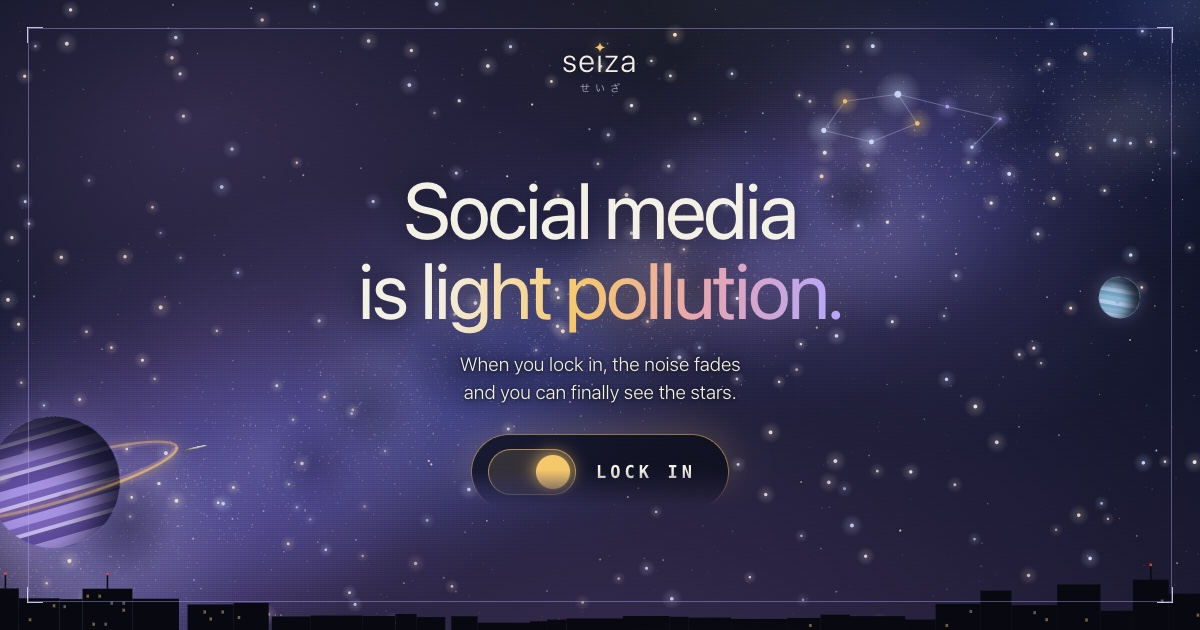
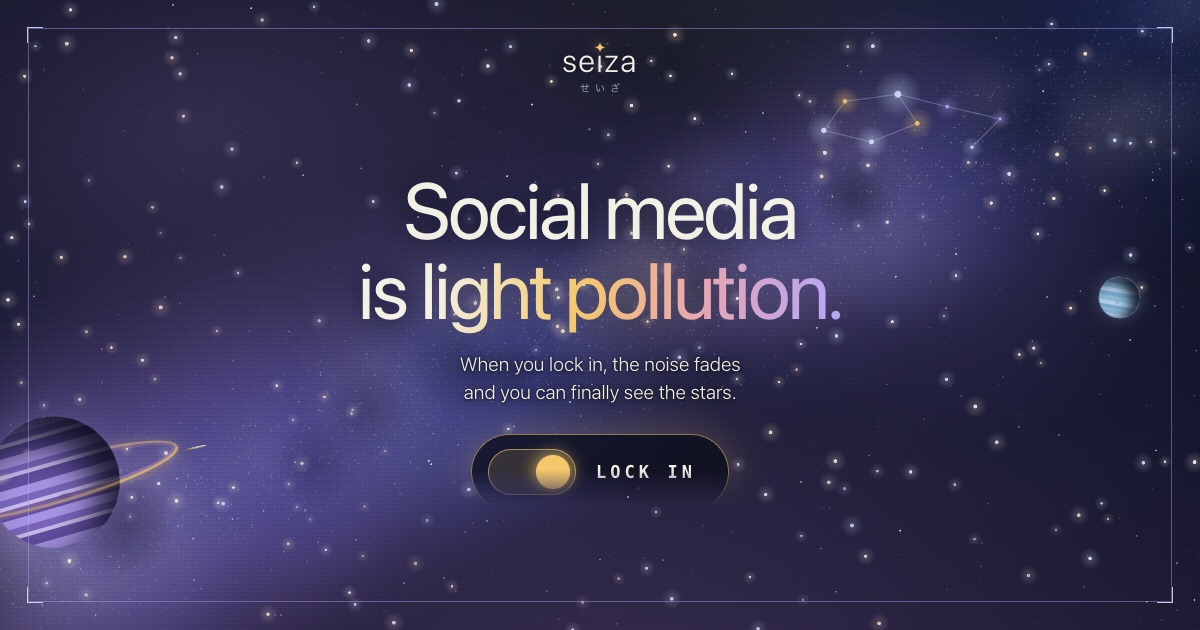
Remove the city lights and the haze switch from the website
Jake wasn't sold on the city, and it was some of the sky's per-frame work. Light pollution is
the sunset-like glow only, so the Haze switch (LookSwitch, useLook, look.css) goes too. The share
image is retaken without the skyline.

Changed region(s): [[0.0, 0.9048, 1.0, 1.0]]

diff --git a/apps/website/app/utils/sky.js b/apps/website/app/utils/sky.js
@@ -1,6 +1,6 @@
 // The night sky behind the website, on a canvas: thousands of stars by brightness, the
 // Milky Way, a constellation that draws itself, the odd shooting star, and light pollution, the
-// brand's metaphor. With `haze` at 1 the sky is a washed-out orange city glow where only the
+// brand's metaphor. With `haze` at 1 the sky is a washed-out orange glow where only the
 // brightest stars get through; at 0 it's clear and deep. Every option eases toward its new
 // value, so a change glides; with reduced motion the sky jumps there and stays still.
 function random(seed) {
@@ -54,9 +54,6 @@ const STAR_COLORS = ['#f3f0e6', '#f3f0e6', '#dce4ff', '#cfe0ff', '#fff1d6', '#ff
  *   shorter side)
  * - shift: scrolls the stars up by this many pixels, the nearer ones more, for parallax
  * - glow: the dusk glow at the bottom of a clear sky
- * - city: how the light pollution looks, from a sunset-like glow (0) to city lights (1): a
- *   skyline along the bottom with lit windows and a dome of orange light over it. Fewer windows
- *   stay lit as the haze clears.
  * Not eased: `meteors` (shooting stars now and then while the sky is clear), `seed`.
  * Returns { set(options), state }.
  */
@@ -72,7 +69,6 @@ export function createSky(canvas, options = {}) {
       cs: 0.42,
       shift: 0,
       glow: 1,
-      city: 0,
     },
     options,
   );
@@ -84,12 +80,8 @@ export function createSky(canvas, options = {}) {
   let dpr = 1;
   let stars = [];
   let band = null;
-  let buildings = [];
   // Per star color, a bright star drawn once (disc, or disc and halo) to stamp each frame.
   let sprites = new Map();
-  // The buildings and their windows, drawn now and then rather than every frame.
-  let cityLayer = null;
-  let cityDrawn = { at: -Infinity, haze: -1, city: -1 };
   const shooting = [];
   let nextMeteor = 4000;
 
@@ -114,8 +106,6 @@ export function createSky(canvas, options = {}) {
     stars.sort((a, b) => STAR_COLORS.indexOf(a.color) - STAR_COLORS.indexOf(b.color));
     sprites = new Map(STAR_COLORS.map((color) => [color, starSprites(color)]));
     band = milkyWay(random(11));
-    buildings = skyline(random(23));
-    cityLayer = null;
   }
 
   // A bright star at radius SPRITE_R: the disc alone, and the disc with its halo out to six
@@ -196,34 +186,6 @@ export function createSky(canvas, options = {}) {
     return off;
   }
 
-  // A city along the bottom: low rooftops in the middle, where a page's bottom navigation
-  // sits, and towers rising towards the left and right edges. Each building has a grid of
-  // windows that light up in a random order as the haze thickens; the low middle stretch keeps
-  // fewer of them lit, so it doesn't outshine what's drawn over it.
-  function skyline(rand) {
-    const out = [];
-    const tallest = Math.max(36, h * 0.075);
-    const valley = Math.min(340, w * 0.46);
-    let x = -8;
-    while (x < w + 8) {
-      const bw = 16 + rand() * 44;
-      const fromMiddle = Math.abs(x + bw / 2 - w / 2);
-      // 0 in the low middle, rising to 1 by the edges.
-      const rise = Math.min(1, Math.max(0, (fromMiddle - valley) / Math.max(1, w / 2 - valley)));
-      const edge = fromMiddle < valley ? 0 : 0.35 + 0.65 * rise;
-      const bh = edge ? tallest * (0.35 + rand() * 0.3 + edge * rand() * 0.75) : tallest * (0.14 + rand() * 0.2);
-      const windows = [];
-      for (let wy = 6; wy < bh - 6; wy += 7) {
-        for (let wx = 4; wx < bw - 5; wx += 6) {
-          windows.push({ x: wx, y: wy, order: rand(), phase: rand() * Math.PI * 2, warm: rand() < 0.75 });
-        }
-      }
-      out.push({ x, w: bw, h: bh, windows, lit: edge ? 1 : 0.45, mast: bh > tallest * 0.75 && rand() < 0.7 });
-      x += bw + (rand() < 0.2 ? 2 + rand() * 10 : 0);
-    }
-    return out;
-  }
-
   function resize() {
     const box = canvas.getBoundingClientRect();
     if (!box.width || !box.height) return;
@@ -240,14 +202,12 @@ export function createSky(canvas, options = {}) {
     const s = state;
     ctx.setTransform(dpr, 0, 0, dpr, 0, 0);
 
-    // The sky itself: deep blue when clear; polluted, a muddy orange-brown glow like a sunset, or
-    // the flat greyish-orange of a city's sky.
+    // The sky itself: deep blue when clear; polluted, a muddy orange-brown glow like a sunset.
     const sky = ctx.createLinearGradient(0, 0, 0, h);
-    const hazy = (sunset, city) => mix(sunset, city, s.city);
-    const stop = (clear, sunset, city) => mix(clear, hazy(sunset, city), s.haze);
-    sky.addColorStop(0, `rgb(${stop(11, 34, 36)} ${stop(16, 28, 33)} ${stop(32, 44, 44)})`);
-    sky.addColorStop(0.6, `rgb(${stop(13, 58, 58)} ${stop(18, 40, 48)} ${stop(38, 48, 56)})`);
-    sky.addColorStop(1, `rgb(${stop(21, 120, 112)} ${stop(20, 70, 76)} ${stop(42, 52, 64)})`);
+    const stop = (clear, hazy) => mix(clear, hazy, s.haze);
+    sky.addColorStop(0, `rgb(${stop(11, 34)} ${stop(16, 28)} ${stop(32, 44)})`);
+    sky.addColorStop(0.6, `rgb(${stop(13, 58)} ${stop(18, 40)} ${stop(38, 48)})`);
+    sky.addColorStop(1, `rgb(${stop(21, 120)} ${stop(20, 70)} ${stop(42, 52)})`);
     ctx.fillStyle = sky;
     ctx.fillRect(0, 0, w, h);
 
@@ -287,16 +247,13 @@ export function createSky(canvas, options = {}) {
     if (meteors && !reduce) drawMeteors(t);
 
     // Light pollution: an orange glow rising from the bottom, and a pale veil over all of it.
-    const sunset = s.haze * (1 - s.city);
-    if (sunset > 0.01) {
-      const city = ctx.createRadialGradient(w / 2, h * 1.25, 0, w / 2, h * 1.25, Math.max(w, h) * 1.1);
-      city.addColorStop(0, `rgb(255 154 82 / ${0.55 * sunset})`);
-      city.addColorStop(0.45, `rgb(214 110 80 / ${0.28 * sunset})`);
-      city.addColorStop(1, 'rgb(120 70 90 / 0)');
-      ctx.fillStyle = city;
-      ctx.fillRect(0, 0, w, h);
-    }
     if (s.haze > 0.01) {
+      const pollution = ctx.createRadialGradient(w / 2, h * 1.25, 0, w / 2, h * 1.25, Math.max(w, h) * 1.1);
+      pollution.addColorStop(0, `rgb(255 154 82 / ${0.55 * s.haze})`);
+      pollution.addColorStop(0.45, `rgb(214 110 80 / ${0.28 * s.haze})`);
+      pollution.addColorStop(1, 'rgb(120 70 90 / 0)');
+      ctx.fillStyle = pollution;
+      ctx.fillRect(0, 0, w, h);
       ctx.fillStyle = `rgb(150 120 130 / ${0.1 * s.haze})`;
       ctx.fillRect(0, 0, w, h);
     }
@@ -310,97 +267,6 @@ export function createSky(canvas, options = {}) {
       ctx.fillStyle = glow;
       ctx.fillRect(0, 0, w, h);
     }
-
-    if (s.city > 0.01) drawCity(time);
-  }
-
-  function drawCity(time) {
-    const s = state;
-    const c = s.city;
-
-    // The dome of light over the city: wide and low, sodium orange, with whiter LED glows.
-    if (s.haze > 0.01) {
-      ctx.save();
-      ctx.translate(w / 2, h);
-      ctx.scale(1, 0.55);
-      const r = Math.max(w * 0.8, h);
-      const dome = ctx.createRadialGradient(0, 0, 0, 0, 0, r);
-      dome.addColorStop(0, `rgb(255 178 98 / ${0.6 * s.haze * c})`);
-      dome.addColorStop(0.3, `rgb(244 140 78 / ${0.32 * s.haze * c})`);
-      dome.addColorStop(0.7, `rgb(190 110 90 / ${0.1 * s.haze * c})`);
-      dome.addColorStop(1, 'rgb(150 100 100 / 0)');
-      ctx.fillStyle = dome;
-      ctx.fillRect(-r, -r, r * 2, r);
-      ctx.restore();
-      for (const [x, color] of [
-        [0.18, '220 228 255'],
-        [0.62, '255 214 150'],
-        [0.86, '220 228 255'],
-      ]) {
-        const rr = Math.max(w, h) * 0.22;
-        const g = ctx.createRadialGradient(x * w, h, 0, x * w, h, rr);
-        g.addColorStop(0, `rgb(${color} / ${0.16 * s.haze * c})`);
-        g.addColorStop(1, `rgb(${color} / 0)`);
-        ctx.fillStyle = g;
-        ctx.fillRect(x * w - rr, h - rr, rr * 2, rr);
-      }
-    }
-
-    // The buildings and windows change slowly, so they're redrawn only when the haze or the look
-    // has moved on, or every half second for the windows' drift.
-    if (
-      !cityLayer ||
-      Math.abs(s.haze - cityDrawn.haze) > 0.004 ||
-      Math.abs(c - cityDrawn.city) > 0.004 ||
-      time - cityDrawn.at > 0.5
-    ) {
-      drawBuildings(time);
-    }
-    ctx.drawImage(cityLayer, 0, h - cityLayer.height / dpr, w, cityLayer.height / dpr);
-
-    // A slow red light on top of each mast, for aircraft.
-    const blink = reduce ? 0.8 : 0.35 + 0.65 * Math.max(0, Math.sin(time * 1.6));
-    ctx.fillStyle = `rgb(255 70 60 / ${blink * c})`;
-    for (const b of buildings) {
-      if (b.mast) ctx.fillRect(b.x + b.w / 2 - 1.25, h - b.h - 16, 2.5, 2.5);
-    }
-  }
-
-  // The buildings, dark against the glow, into their own canvas along the bottom.
-  function drawBuildings(time) {
-    const s = state;
-    const c = s.city;
-    const tall = Math.ceil(Math.max(0, ...buildings.map((b) => b.h + 16)));
-    if (!cityLayer || cityLayer.width !== Math.round(w * dpr) || cityLayer.height !== Math.round(tall * dpr)) {
-      cityLayer = document.createElement('canvas');
-      cityLayer.width = Math.round(w * dpr);
-      cityLayer.height = Math.round(tall * dpr);
-    }
-    const g = cityLayer.getContext('2d');
-    g.setTransform(dpr, 0, 0, dpr, 0, 0);
-    g.clearRect(0, 0, w, tall);
-    g.fillStyle = `rgb(7 8 15 / ${c})`;
-    for (const b of buildings) {
-      g.fillRect(b.x, tall - b.h, b.w, b.h);
-      if (b.mast) g.fillRect(b.x + b.w / 2 - 0.75, tall - b.h - 14, 1.5, 14);
-    }
-
-    // Windows: most are lit under the haze, a few stay on under a clear sky. Each one's turn
-    // drifts slowly, so now and then a light goes on or off.
-    const lit = 0.06 + 0.5 * s.haze;
-    const glowA = (0.45 + 0.4 * s.haze) * c;
-    for (const warm of [true, false]) {
-      g.fillStyle = warm ? `rgb(255 212 140 / ${glowA})` : `rgb(214 226 255 / ${glowA * 0.85})`;
-      for (const b of buildings) {
-        const top = tall - b.h;
-        for (const win of b.windows) {
-          if (win.warm !== warm) continue;
-          const drift = reduce ? 0 : 0.03 * Math.sin(time * 0.12 + win.phase);
-          if (win.order + drift < lit * b.lit) g.fillRect(b.x + win.x, top + win.y, 2.5, 3);
-        }
-      }
-    }
-    cityDrawn = { at: time, haze: s.haze, city: c };
   }
 
   function drawConstellation(time) {

diff --git a/apps/website/app/layouts/default.vue b/apps/website/app/layouts/default.vue
@@ -7,7 +7,6 @@ import { createSky } from '~/utils/sky';
 const route = useRoute();
 const nuxtApp = useNuxtApp();
 const { locked, lockOnce } = useLock();
-const { look, restoreLook } = useLook();
 
 const canvas = ref<HTMLCanvasElement>();
 const scroller = ref<HTMLElement>();
@@ -38,7 +37,6 @@ watch(locked, (on) => {
   document.body.style.setProperty('--lead', '0ms');
   sky?.set(skyFor(on));
 });
-watch(look, (next) => sky?.set({ city: next === 'city' ? 1 : 0 }));
 
 // ── The constellation navigator ─────────────────────────────────────────────
 
@@ -240,11 +238,9 @@ let stopPageHook: (() => void) | undefined;
 
 onMounted(() => {
   reduce = matchMedia('(prefers-reduced-motion: reduce)').matches;
-  restoreLook();
   sky = createSky(canvas.value!, {
     ...skyFor(locked.value),
     seed: 5,
-    city: look.value === 'city' ? 1 : 0,
     ...placement(),
   });
   document.body.classList.toggle('locked', locked.value);
@@ -291,6 +287,4 @@ onBeforeUnmount(() => {
   <main id="scroller" ref="scroller" @scroll.passive="queueScroll">
     <slot />
   </main>
-
-  <LookSwitch />
 </template>

diff --git a/apps/website/nuxt.config.ts b/apps/website/nuxt.config.ts
@@ -21,7 +21,6 @@ export default defineNuxtConfig({
     '~/assets/css/satellites.css',
     '~/assets/css/privacy-install.css',
     '~/assets/css/reading.css',
-    '~/assets/css/look.css',
     '~/assets/css/phones.css',
   ],
   app: {

diff --git a/apps/website/README.md b/apps/website/README.md
@@ -15,7 +15,7 @@ pnpm dev:website
 ## How it fits together
 
 - `app/layouts/default.vue`: everything around the pages: the canvas sky, the frame and its corner readouts, the constellation navigator, and the scroller the sections sit in. Each section with a `data-name` becomes a star on the navigator.
-- `app/utils/sky.js`: the canvas sky (stars, the Milky Way, the week's constellation, shooting stars, and light pollution as a sunset glow or city lights).
+- `app/utils/sky.js`: the canvas sky (stars, the Milky Way, the week's constellation, shooting stars, and light pollution as a sunset-like glow).
 - `app/composables/useLock.ts`: whether you're locked in, shared by the hero's switch, the session readout and the sky. Scrolling past the hero, or opening a reading page, locks in once by itself.
 - `app/components/home/`: the home page's sections. Their demos (the four levels, the redirect page's countdown, satellites) are made up and run in the page only.
 - `app/assets/css/`: the styles, in cascade order (see `nuxt.config.ts`).
